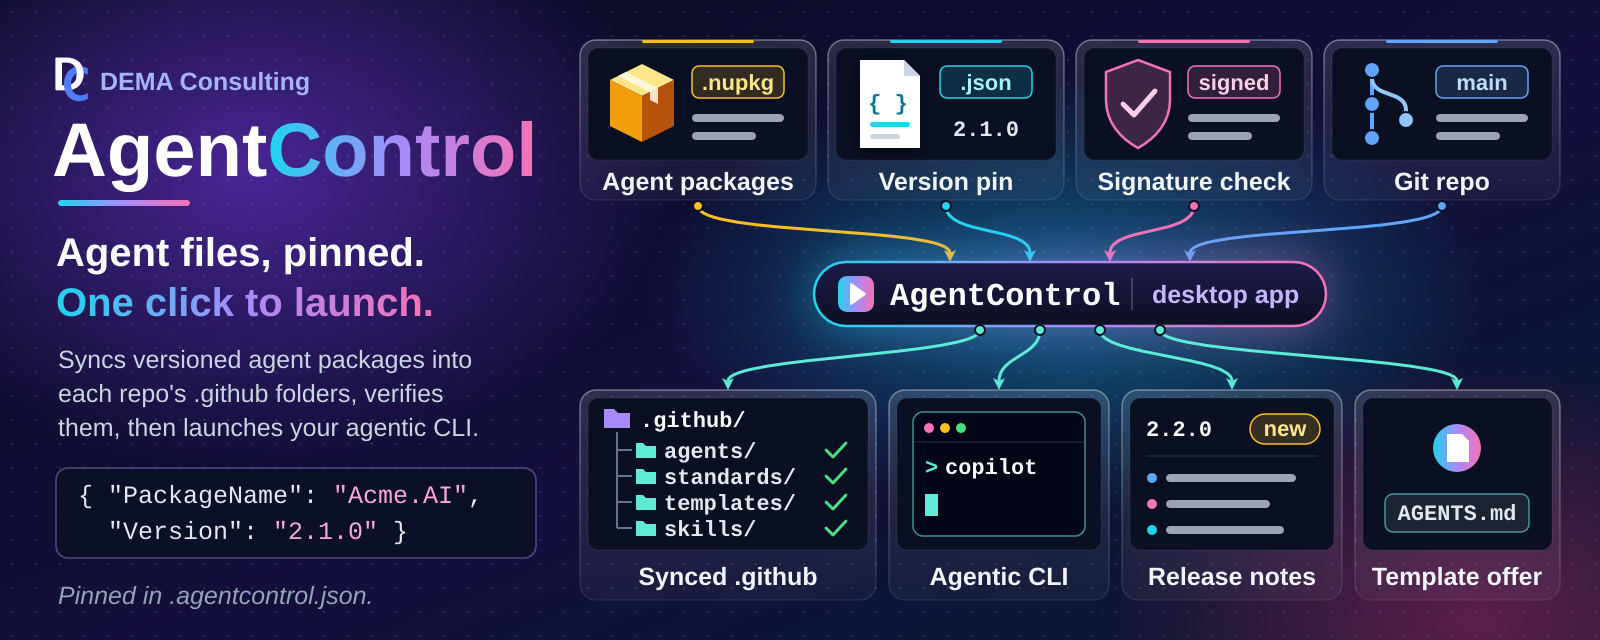
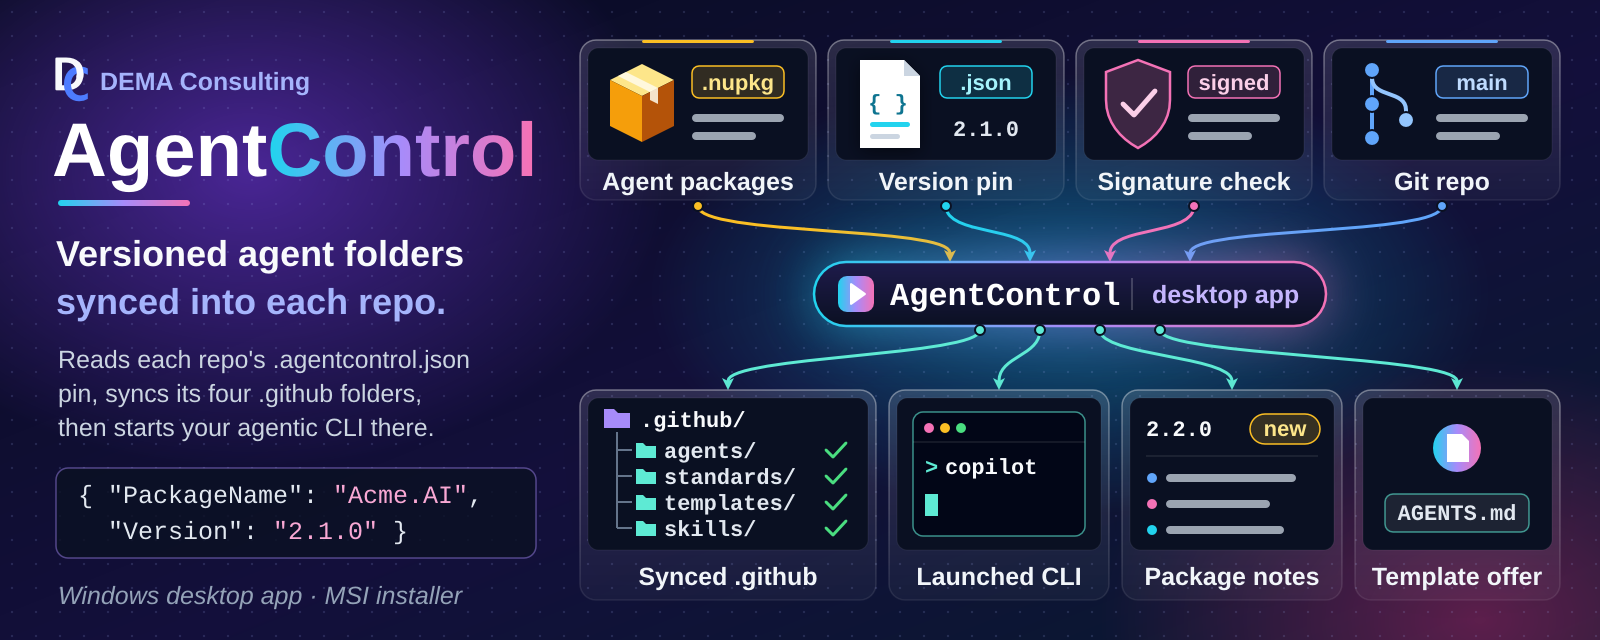
Template catch-up: Agents #62, Agents-template #61/#63/#72 and the calmer README hero (SysML2 deferred) (#61)
* Sync orchestrator, planning and AGENTS.md from Agents (#62)

Update the orchestrator agent (new Pull Requests section) and the planning
agent (Step 6 proposes the PR grouping; Feasibility and Delivery heading)
to Agents 69278a8. In AGENTS.md, drop fix.ps1 and lint.ps1 from the
protected list and add the Project Scripts section.

* Sync template scripts, yamlfix and CanvasNet from Agents-template (#61, #63, #72)

- .yamlfix.toml: comments_require_starting_space = false with its rationale (#61)
- build.ps1, lint.ps1, fix.ps1: CUSTOMIZATION header blocks; -SkipUiTests kept (#63)
- canvasnet 0.2.0-beta.13; docs/filters/canvasnet.lua rewritten with
  'dotnet canvasnet pandoc-filter --write-shim' (#72)

* README hero: plain tagline as the H1 (Agents-template #66, #67)

- hero.svg: 36px tagline 'Versioned agent folders' / 'synced into each
  repo.' (line two solid #a5b4fc, no gradient), a factual body without the
  'verifies them' claim, and the footnote 'Windows desktop app · MSI
  installer'. Output cards say what AgentControl does not make itself:
  'Launched CLI' and 'Package notes' (the package's notes for a newer
  version). hero.png re-rendered with render-hero.ps1.
- README.md: the hero is the H1 with the short alt text, badges under it.
- About mission text and the user guide: 'without committing'.

---------

diff --git a/src/DemaConsulting.AgentControl/LauncherUI/AboutWindow.axaml.cs b/src/DemaConsulting.AgentControl/LauncherUI/AboutWindow.axaml.cs
@@ -58,7 +58,7 @@ internal sealed partial class AboutWindow : Window
     /// </summary>
     private const string Tagline =
         "Distribute proprietary AI-agent configuration alongside public repositories, "
-        + "without ever committing that proprietary content to source control.";
+        + "without committing that proprietary content to source control.";
 
     /// <summary>
     ///     The project's tagline, shown under the name in the banner.

diff --git a/.github/agents/orchestrator.agent.md b/.github/agents/orchestrator.agent.md
@@ -48,3 +48,16 @@ briefly, what you loaded.
   let the user answer in their own words. Do not batch decisions into structured question forms (such as an
   `ask_user` tool); they strip away the context the user needs to decide and turn the session into a
   questionnaire.
+
+# Pull Requests (MANDATORY)
+
+Aim for pull requests that each merge one complete, useful change that could be cherry-picked on its own.
+
+- Before starting work that could span more than one pull request, propose the grouping and let the user
+  decide. The user may split it, or combine several small requests into one pull request.
+- When splitting, split by behavior, not by layer or file type: each part carries its own code, tests,
+  requirements, and docs, builds and passes alone, and leaves no stubs or dead code for a later part.
+- Deliver parts in order: start the next part from main only after the previous one merges.
+- Review fixes, lint fixes, and follow-ups go into the open pull request they belong to, not a new one.
+- Sub-agents work on the agreed branch and do not open pull requests; you decide when it is complete.
+- Keep mechanical churn (formatting, renames, generated files) in its own commit so reviewers can skip it.

diff --git a/README.md b/README.md
@@ -1,4 +1,4 @@
-# Agent Control
+# ![AgentControl: Versioned agent folders synced into each repo][hero]
 
 [![GitHub forks][badge-forks]][link-forks]
 [![GitHub stars][badge-stars]][link-stars]
@@ -7,12 +7,6 @@
 [![Build][badge-build]][link-build]
 [![Quality Gate][badge-quality]][link-quality]
 [![Security][badge-security]][link-security]
-
-![AgentControl banner: the AgentControl name with the tagline 'Agent files, pinned. One click to launch.' and a
-.agentcontrol.json pin naming the package 'Acme.AI' at version '2.1.0'. Agent packages, the repo's version pin,
-package signature checks, and the Git repository flow on curved arrows into the AgentControl desktop app, and arrows
-lead out to the repo's synced .github agents, standards, templates, and skills folders, the launched agentic CLI,
-the release notes of a newer version, and an offered AGENTS.md template][hero]
 
 AgentControl is a Windows desktop launcher that lets a company distribute proprietary AI-agent configuration
 alongside public source repositories, without committing that content to source control. Each repo pins an exact

diff --git a/.github/agents/planning.agent.md b/.github/agents/planning.agent.md
@@ -52,10 +52,13 @@ Repeat up to 2 more times, stopping when the plan is stable.
 
 List up to 5 risks with a brief mitigation for each.
 
-## Step 6 — Feasibility Assessment
+## Step 6 — Feasibility and Delivery
 
 State whether this can be implemented in a single development pass and any
-preconditions that affect feasibility.
+preconditions that affect feasibility. Propose how the work groups into pull
+requests: one complete, useful change per pull request where possible; if it
+should be split, list ordered parts that are split by behavior (not by layer or
+file type) and each build, pass, and deliver something on their own.
 
 ## Step 7 — Recommendation
 
@@ -108,9 +111,12 @@ Then respond to the caller with ONLY the lean structured summary below.
 
 1. **[severity]** {risk} — {mitigation}
 
-## Feasibility Assessment
+## Feasibility and Delivery
 
 {Single-pass or not, and why. Any preconditions.}
+
+{Proposed pull-request grouping: one pull request, or ordered parts split by behavior,
+each with what it delivers on its own.}
 
 ## Unknowns
 

diff --git a/AGENTS.md b/AGENTS.md
@@ -180,7 +180,17 @@ requires it and the modification preserves the documented design intent:
 
 - `.reviewmark.yaml`, `.textlint.yaml`, `.editorconfig`
 - `.lintmark.yaml`, `.yamllint.yaml`
-- `requirements.yaml`, `fix.ps1`, `lint.ps1`
+- `requirements.yaml`
+
+# Project Scripts
+
+`build.ps1`, `lint.ps1`, and `fix.ps1` belong to the project: extend them as it grows. Add project-specific
+steps, update tool versions, and add optional parameters that focus a run (for example one library in a
+multi-library repository, or headless tests without GUI automation). Two rules keep them trustworthy:
+
+- Run with no arguments, each script still does its full job (CI and the agents rely on that); slow or
+  environment-dependent test tiers may be opt-in switches of `build.ps1`.
+- Never remove or weaken a check to make lint or tests pass.
 
 # Continuous Compliance Overview
 

diff --git a/docs/user_guide/introduction.md b/docs/user_guide/introduction.md
@@ -4,7 +4,7 @@
 
 Agent Control is a Windows desktop launcher application that lets a company distribute
 proprietary AI-agent configuration (Copilot/agentic-CLI instruction files, standards,
-templates, and skills) alongside public source repositories, without ever committing that
+templates, and skills) alongside public source repositories, without committing that
 proprietary content to source control. A developer opens a repo from a repo list,
 has AgentControl ensure the repo's `.github/agents`, `.github/standards`,
 `.github/templates`, and `.github/skills` folders match the version pinned in that repo's
